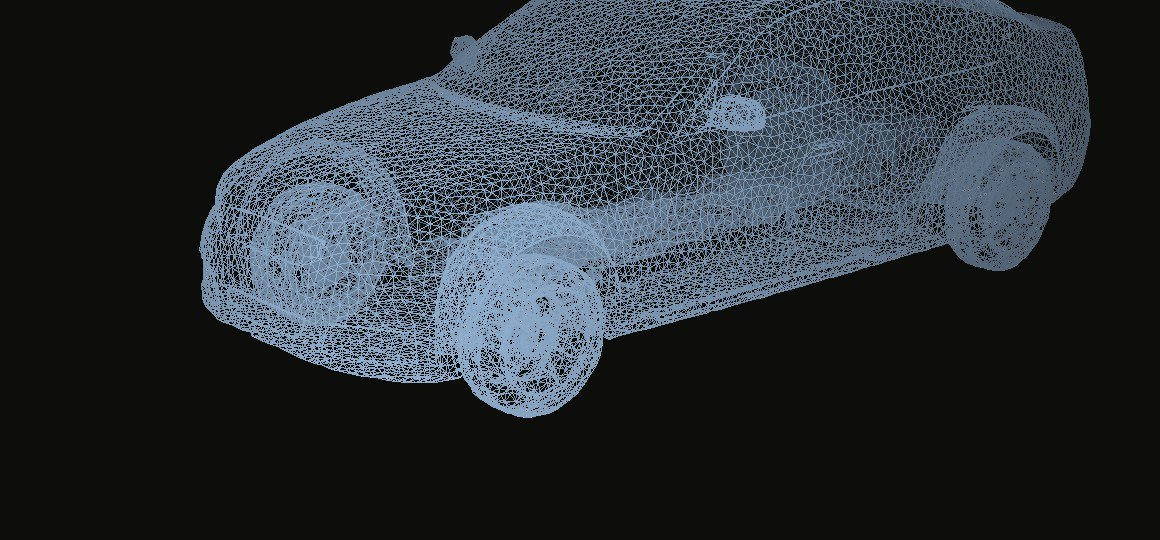
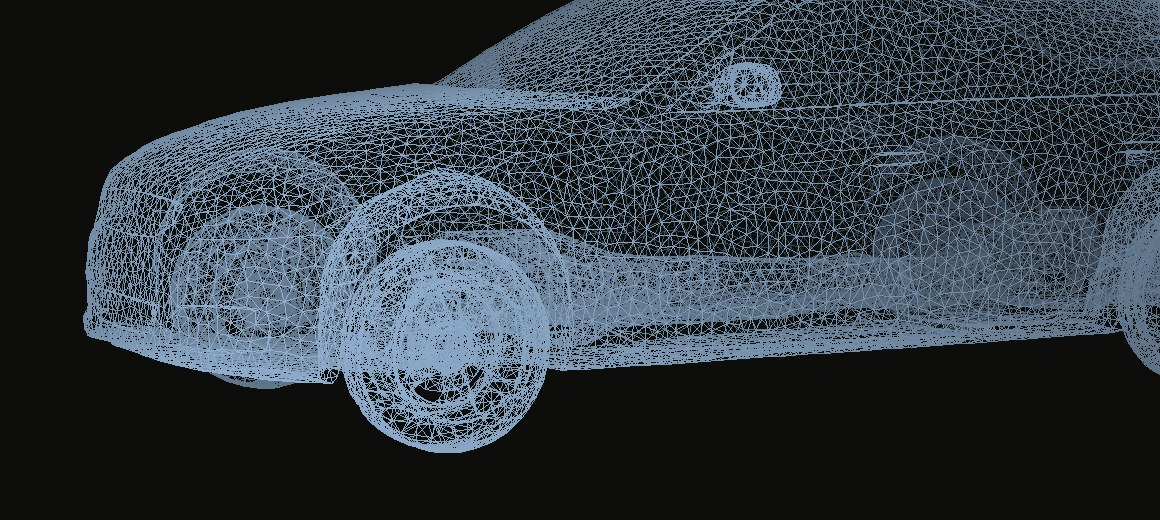
Automotive: fix panel differentiation, angles, and hero overlap
- Left panel is now a genuine tight zoom (span 0.62 vs hero's 0.37) on
  the wheels, arches and spokes at a lower side-on angle — clearly not
  the hero shot anymore.
- Cp panel reframed to a diagonal front-3/4 that fills the frame with no
  chopping; stagnation on bumper/windshield, suction over the roof.
- Both panels re-rendered at a matched 1160x520 so the row bottoms align.
- Hero raised (sc 0.40->0.37, cy 0.34->0.29) so it sits fully above the
  panel row with 66px clearance instead of kissing it.
panels ?v=2, pages v45.

diff --git a/index.html b/index.html
@@ -317,11 +317,11 @@
           </div>
           <div class="xsec" aria-hidden="true">
             <figure class="xsec__panel">
-              <img src="assets/auto-zoom.jpg" alt="" />
+              <img src="assets/auto-zoom.jpg?v=2" alt="" />
               <figcaption>local refinement &middot; mirror &amp; arch</figcaption>
             </figure>
             <figure class="xsec__panel">
-              <img src="assets/auto-cp.jpg" alt="" />
+              <img src="assets/auto-cp.jpg?v=2" alt="" />
               <figcaption>cp field &middot; drivaerml dataset</figcaption>
             </figure>
           </div>
@@ -454,7 +454,7 @@
   <script src="https://cdnjs.cloudflare.com/ajax/libs/pako/2.1.0/pako.min.js" defer></script>
   <script src="airfoil.js?v=9" defer></script>
   <script src="site.js?v=9" defer></script>
-  <script src="pages.js?v=44" defer></script>
+  <script src="pages.js?v=45" defer></script>
   <script src="waitlist.js?v=9" defer></script>
 </body>
 </html>

diff --git a/orange.html b/orange.html
@@ -318,11 +318,11 @@
           </div>
           <div class="xsec" aria-hidden="true">
             <figure class="xsec__panel">
-              <img src="assets/auto-zoom.jpg" alt="" />
+              <img src="assets/auto-zoom.jpg?v=2" alt="" />
               <figcaption>local refinement &middot; mirror &amp; arch</figcaption>
             </figure>
             <figure class="xsec__panel">
-              <img src="assets/auto-cp.jpg" alt="" />
+              <img src="assets/auto-cp.jpg?v=2" alt="" />
               <figcaption>cp field &middot; drivaerml dataset</figcaption>
             </figure>
           </div>
@@ -455,7 +455,7 @@
   <script src="https://cdnjs.cloudflare.com/ajax/libs/pako/2.1.0/pako.min.js" defer></script>
   <script src="airfoil.js?v=9" defer></script>
   <script src="site.js?v=9" defer></script>
-  <script src="pages.js?v=44" defer></script>
+  <script src="pages.js?v=45" defer></script>
   <script src="waitlist.js?v=9" defer></script>
 </body>
 </html>

diff --git a/steel.html b/steel.html
@@ -318,11 +318,11 @@
           </div>
           <div class="xsec" aria-hidden="true">
             <figure class="xsec__panel">
-              <img src="assets/auto-zoom.jpg" alt="" />
+              <img src="assets/auto-zoom.jpg?v=2" alt="" />
               <figcaption>local refinement &middot; mirror &amp; arch</figcaption>
             </figure>
             <figure class="xsec__panel">
-              <img src="assets/auto-cp.jpg" alt="" />
+              <img src="assets/auto-cp.jpg?v=2" alt="" />
               <figcaption>cp field &middot; drivaerml dataset</figcaption>
             </figure>
           </div>
@@ -455,7 +455,7 @@
   <script src="https://cdnjs.cloudflare.com/ajax/libs/pako/2.1.0/pako.min.js" defer></script>
   <script src="airfoil.js?v=9" defer></script>
   <script src="site.js?v=9" defer></script>
-  <script src="pages.js?v=44" defer></script>
+  <script src="pages.js?v=45" defer></script>
   <script src="waitlist.js?v=9" defer></script>
 </body>
 </html>

diff --git a/pages.js b/pages.js
@@ -862,7 +862,7 @@
     const REAL = {
       0: { url: "assets/rocket.json.gz", ry: 0.62, rx: -0.18, sc: 1.18, cx: 0.56, cy: 0.46, f3: 3.4 },
       1: { url: "assets/artery.json.gz?v=2", ry: 0.35, rx: -0.18, sc: 0.52, cx: 0.62, cy: 0.32, f3: 3.4, pulse: 1 },
-      3: { url: "assets/car2.json.gz", ry: 0.72, rx: -0.30, sc: 0.40, cx: 0.60, cy: 0.34, f3: 3.4, gy: 0.322, wake: 1 },
+      3: { url: "assets/car2.json.gz", ry: 0.72, rx: -0.30, sc: 0.37, cx: 0.60, cy: 0.29, f3: 3.4, gy: 0.322, wake: 1 },
     };
     for (const k in REAL) {
       const e = REAL[k];

diff --git a/technology.html b/technology.html
@@ -244,7 +244,7 @@
 
   <script src="https://cdn.jsdelivr.net/npm/lenis@1.1.20/dist/lenis.min.js" defer></script>
   <script src="site.js?v=9" defer></script>
-  <script src="pages.js?v=44" defer></script>
+  <script src="pages.js?v=45" defer></script>
   <script src="waitlist.js?v=9" defer></script>
 </body>
 </html>

diff --git a/contact.html b/contact.html
@@ -77,7 +77,7 @@
 
   <script src="https://cdn.jsdelivr.net/npm/lenis@1.1.20/dist/lenis.min.js" defer></script>
   <script src="site.js?v=9" defer></script>
-  <script src="pages.js?v=44" defer></script>
+  <script src="pages.js?v=45" defer></script>
   <script src="waitlist.js?v=9" defer></script>
 </body>
 </html>
